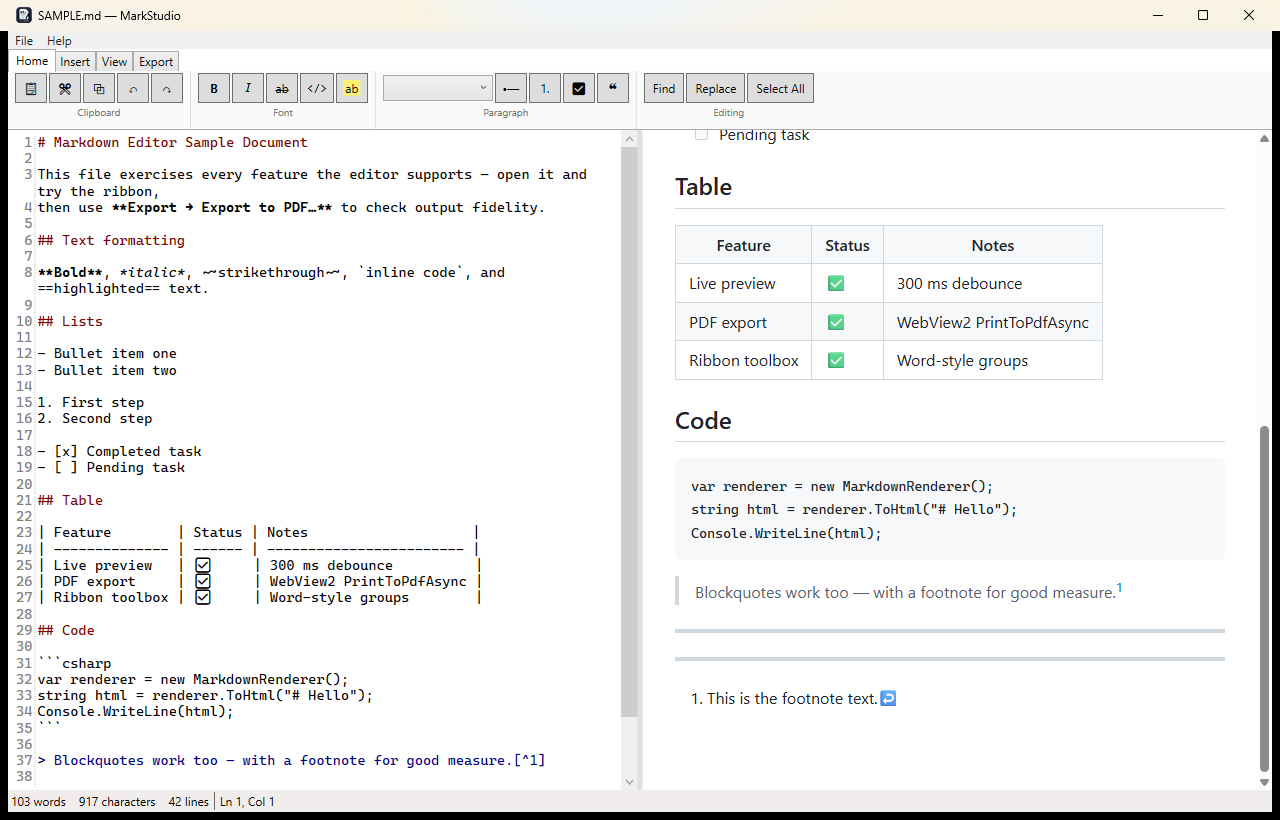
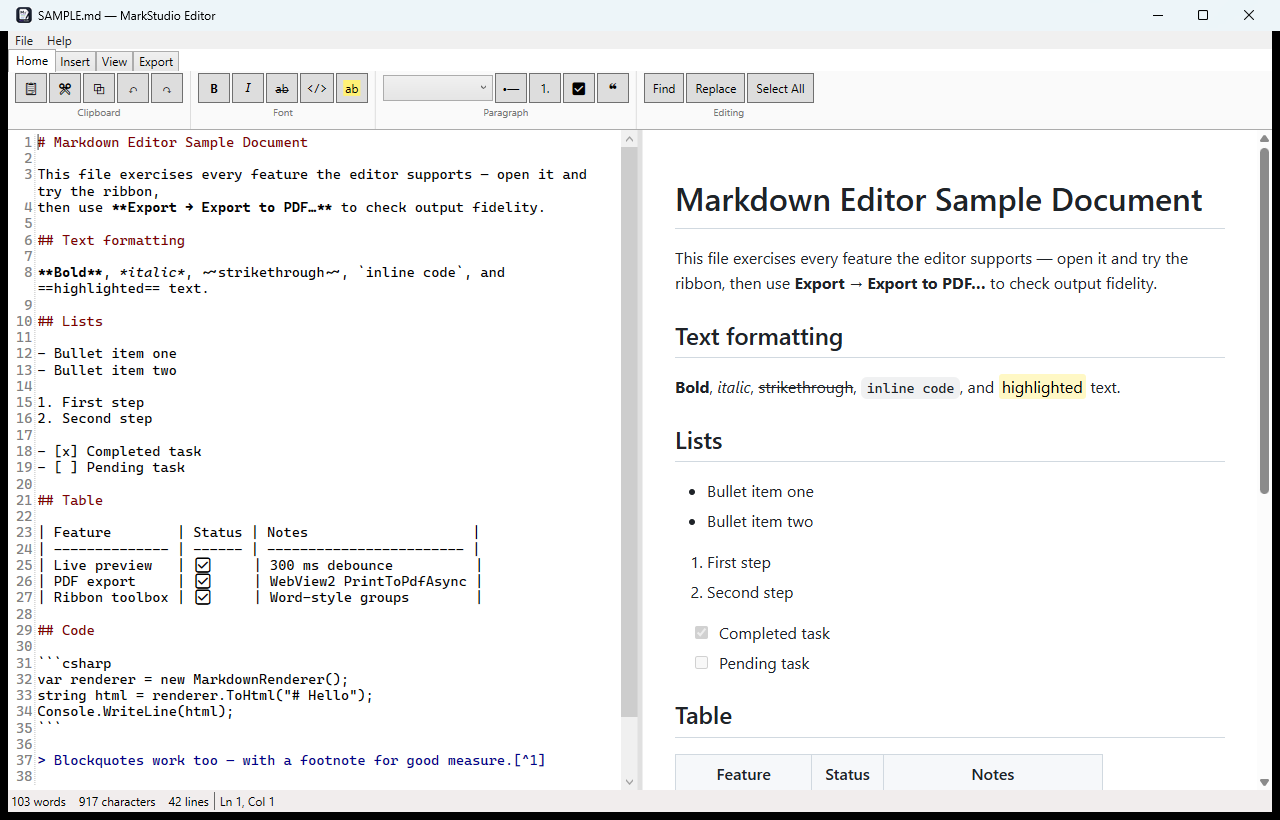
Rename app to MarkStudio Editor (Store name reservation): titles, exe, bundle, README, screenshots

diff --git a/src/MarkdownEditor.App/Views/SplashWindow.xaml b/src/MarkdownEditor.App/Views/SplashWindow.xaml
@@ -1,7 +1,7 @@
 <Window x:Class="MarkdownEditor.App.Views.SplashWindow"
         xmlns="http://schemas.microsoft.com/winfx/2006/xaml/presentation"
         xmlns:x="http://schemas.microsoft.com/winfx/2006/xaml"
-        Title="MarkStudio"
+        Title="MarkStudio Editor"
         Icon="pack://application:,,,/Assets/app.ico"
         Width="640" Height="420"
         WindowStyle="None"
@@ -36,7 +36,7 @@
                 <Image Source="pack://application:,,,/Assets/splash-icon.png" Width="80" Height="80"
                        VerticalAlignment="Center" RenderOptions.BitmapScalingMode="HighQuality" />
                 <StackPanel VerticalAlignment="Center" Margin="20,0,0,0">
-                    <TextBlock Text="MarkStudio" FontSize="44" FontWeight="SemiBold"
+                    <TextBlock Text="MarkStudio Editor" FontSize="36" FontWeight="SemiBold"
                                Foreground="White" FontFamily="Segoe UI" />
                     <TextBlock x:Name="VersionText" Text="Version 1.0"
                                FontSize="15" Foreground="#FFC4B5FD" Margin="2,2,0,0" />

diff --git a/src/MarkdownEditor.App/MainWindow.Polish.cs b/src/MarkdownEditor.App/MainWindow.Polish.cs
@@ -191,12 +191,12 @@ public partial class MainWindow
     {
         var version = Assembly.GetExecutingAssembly().GetName().Version?.ToString(3) ?? "1.0.0";
         MessageBox.Show(this,
-            $"MarkStudio {version}\n\n" +
+            $"MarkStudio Editor {version}\n\n" +
             "A Markdown document viewer and editor with a Word-style toolbox,\n" +
             "live preview, and PDF export.\n\n" +
             "Developed by Praveen K P.\n" +
             "Built with .NET 8 (WPF/C#), Markdig, AvalonEdit, WebView2, and xUnit.\n" +
             "Developed with Claude Code (Anthropic's Claude AI).",
-            "About MarkStudio", MessageBoxButton.OK, MessageBoxImage.Information);
+            "About MarkStudio Editor", MessageBoxButton.OK, MessageBoxImage.Information);
     }
 }

diff --git a/src/MarkdownEditor.App/ViewModels/MainViewModel.cs b/src/MarkdownEditor.App/ViewModels/MainViewModel.cs
@@ -19,7 +19,7 @@ public partial class MainViewModel : ObservableObject
             "MarkdownEditor", "recent.json"));
 
     [ObservableProperty]
-    private string _windowTitle = "Untitled — MarkStudio";
+    private string _windowTitle = "Untitled — MarkStudio Editor";
 
     [ObservableProperty]
     private string _statusInfo = "0 words";
@@ -81,5 +81,5 @@ public partial class MainViewModel : ObservableObject
     }
 
     private void UpdateTitle() =>
-        WindowTitle = $"{_document.Title}{(_document.IsDirty ? " ●" : "")} — MarkStudio";
+        WindowTitle = $"{_document.Title}{(_document.IsDirty ? " ●" : "")} — MarkStudio Editor";
 }

diff --git a/src/MarkdownEditor.App/App.xaml.cs b/src/MarkdownEditor.App/App.xaml.cs
@@ -16,7 +16,7 @@ public partial class App : Application
             MessageBox.Show(
                 $"An unexpected error occurred:\n{args.Exception.Message}\n\n" +
                 "The error has been logged. The application will try to continue.",
-                "MarkStudio", MessageBoxButton.OK, MessageBoxImage.Error);
+                "MarkStudio Editor", MessageBoxButton.OK, MessageBoxImage.Error);
             args.Handled = true;
         };
         AppDomain.CurrentDomain.UnhandledException += (_, args) =>

diff --git a/README.md b/README.md
@@ -1,8 +1,8 @@
 <p align="center">
-  <img src="src/MarkdownEditor.App/Assets/splash-icon.png" alt="MarkStudio icon" width="110" />
+  <img src="src/MarkdownEditor.App/Assets/splash-icon.png" alt="MarkStudio Editor icon" width="110" />
 </p>
 
-<h1 align="center">MarkStudio</h1>
+<h1 align="center">MarkStudio Editor</h1>
 
 <p align="center">
   A Windows Markdown document viewer &amp; editor with a <b>Microsoft Word–style toolbox</b>,
@@ -15,7 +15,7 @@
 
 ---
 
-![MarkStudio main window](docs/images/main-window.png)
+![MarkStudio Editor main window](docs/images/main-window.png)
 
 *The main window: ribbon toolbox on top, Markdown source with syntax highlighting on the left, live rendered preview on the right, word count and caret position in the status bar.*
 
@@ -29,37 +29,37 @@
 
 ## Download, extract, and run
 
-MarkStudio ships as a **self-contained bundle** — the target PC needs **no Visual Studio and no .NET installation**.
+MarkStudio Editor ships as a **self-contained bundle** — the target PC needs **no Visual Studio and no .NET installation**.
 
-1. Go to the **[Releases page](https://github.com/praveen-k-prasannan-dev/MarkStudio/releases/latest)** and download `MarkStudio-1.0.0-win-x64.zip` (~64 MB).
-2. Right-click the downloaded zip → **Extract All…** → choose any folder (e.g. `C:\Apps\MarkStudio`).
-   Keep the extracted files together: `MarkStudio.exe` and the `Assets` folder belong side by side.
-3. Double-click **`MarkStudio.exe`**. The first launch takes a few extra seconds while the bundled .NET runtime unpacks itself.
+1. Go to the **[Releases page](https://github.com/praveen-k-prasannan-dev/MarkStudio/releases/latest)** and download `MarkStudioEditor-1.0.0-win-x64.zip` (~64 MB).
+2. Right-click the downloaded zip → **Extract All…** → choose any folder (e.g. `C:\Apps\MarkStudioEditor`).
+   Keep the extracted files together: `MarkStudioEditor.exe` and the `Assets` folder belong side by side.
+3. Double-click **`MarkStudioEditor.exe`**. The first launch takes a few extra seconds while the bundled .NET runtime unpacks itself.
 4. If Windows SmartScreen shows *"Windows protected your PC"* (the exe is not code-signed), click **More info → Run anyway**.
 
-You can also open a document directly: drag any `.md` file onto `MarkStudio.exe`, or run
-`MarkStudio.exe "C:\path\to\notes.md"`.
+You can also open a document directly: drag any `.md` file onto `MarkStudioEditor.exe`, or run
+`MarkStudioEditor.exe "C:\path\to\notes.md"`.
 
 > **Requirements:** Windows 10 (64-bit) or Windows 11. The preview pane uses the **Microsoft Edge WebView2 Runtime**, which is already present on Windows 11 and on any PC with Microsoft Edge. If it's missing, the app shows a friendly message with the [free download link](https://developer.microsoft.com/microsoft-edge/webview2/).
 
 ## The splash screen
 
-![MarkStudio splash screen](docs/images/splash-screen.png)
+![MarkStudio Editor splash screen](docs/images/splash-screen.png)
 
-On startup MarkStudio shows a Visual Studio-style splash with the version, credits, and a progress bar. It displays for 60 seconds — click **Skip** to jump straight into the editor.
+On startup MarkStudio Editor shows a Visual Studio-style splash with the version, credits, and a progress bar. It displays for 60 seconds — click **Skip** to jump straight into the editor.
 
 ## Using the application
 
 ### Title bar and window
 
-The title bar shows the current document name, a `●` marker when there are **unsaved changes** (e.g. `notes.md ● — MarkStudio`), and the standard minimize/maximize/close controls. Closing with unsaved changes always asks *Save / Don't save / Cancel* — you can't lose work by accident. The window size, position, and your view preferences are remembered between sessions.
+The title bar shows the current document name, a `●` marker when there are **unsaved changes** (e.g. `notes.md ● — MarkStudio Editor`), and the standard minimize/maximize/close controls. Closing with unsaved changes always asks *Save / Don't save / Cancel* — you can't lose work by accident. The window size, position, and your view preferences are remembered between sessions.
 
 ### Menu bar
 
 | Menu | Contents |
 |------|----------|
 | **File** | New (`Ctrl+N`), Open (`Ctrl+O`), **Open Recent** (last 10 files), Save (`Ctrl+S`), Save As (`Ctrl+Shift+S`), Exit |
-| **Help** | About MarkStudio (version and credits) |
+| **Help** | About MarkStudio Editor (version and credits) |
 
 ### The ribbon toolbox
 
@@ -76,6 +76,9 @@ The ribbon has four tabs, like Word:
 Every formatting button is a **toggle**: select text and click Bold to make it `**bold**`; click again to remove it. With nothing selected, the markers are inserted and the caret lands between them, ready to type.
 
 **Insert** — content blocks:
+
+![The Insert tab](docs/images/insert-tab.png)
+
 | Group | Controls |
 |-------|----------|
 | Tables | **Table ▾** opens the Word-style hover grid picker; *Insert Table…* opens a rows/columns dialog |
@@ -125,7 +128,7 @@ dotnet run --project src/MarkdownEditor.App    # run the app
 ## Project structure
 
 ```
-MarkStudio/
+MarkStudio/                                 (repository)
 ├── src/
 │   ├── MarkdownEditor.Core/            # ALL logic — a UI-free .NET 8 class library
 │   │   ├── Markdown/                   #   Markdig pipeline → HTML, full-page builder
@@ -163,7 +166,7 @@ The architecture rule: **anything testable without a window lives in `MarkdownEd
 
 ## How this app was built — an AI development story
 
-MarkStudio was developed by **Praveen K P** in a pair-programming session with **Claude Code**, powered by Anthropic's **Claude Fable** model (the first model of the Claude 5 family). The entire project — plan, code, tests, branding, packaging, and this release — was built through conversation.
+MarkStudio Editor was developed by **Praveen K P** in a pair-programming session with **Claude Code**, powered by Anthropic's **Claude Fable** model (the first model of the Claude 5 family). The entire project — plan, code, tests, branding, packaging, and the release — was built through conversation.
 
 The timeline below comes straight from the git history (2026-07-17 → 2026-07-18):
 